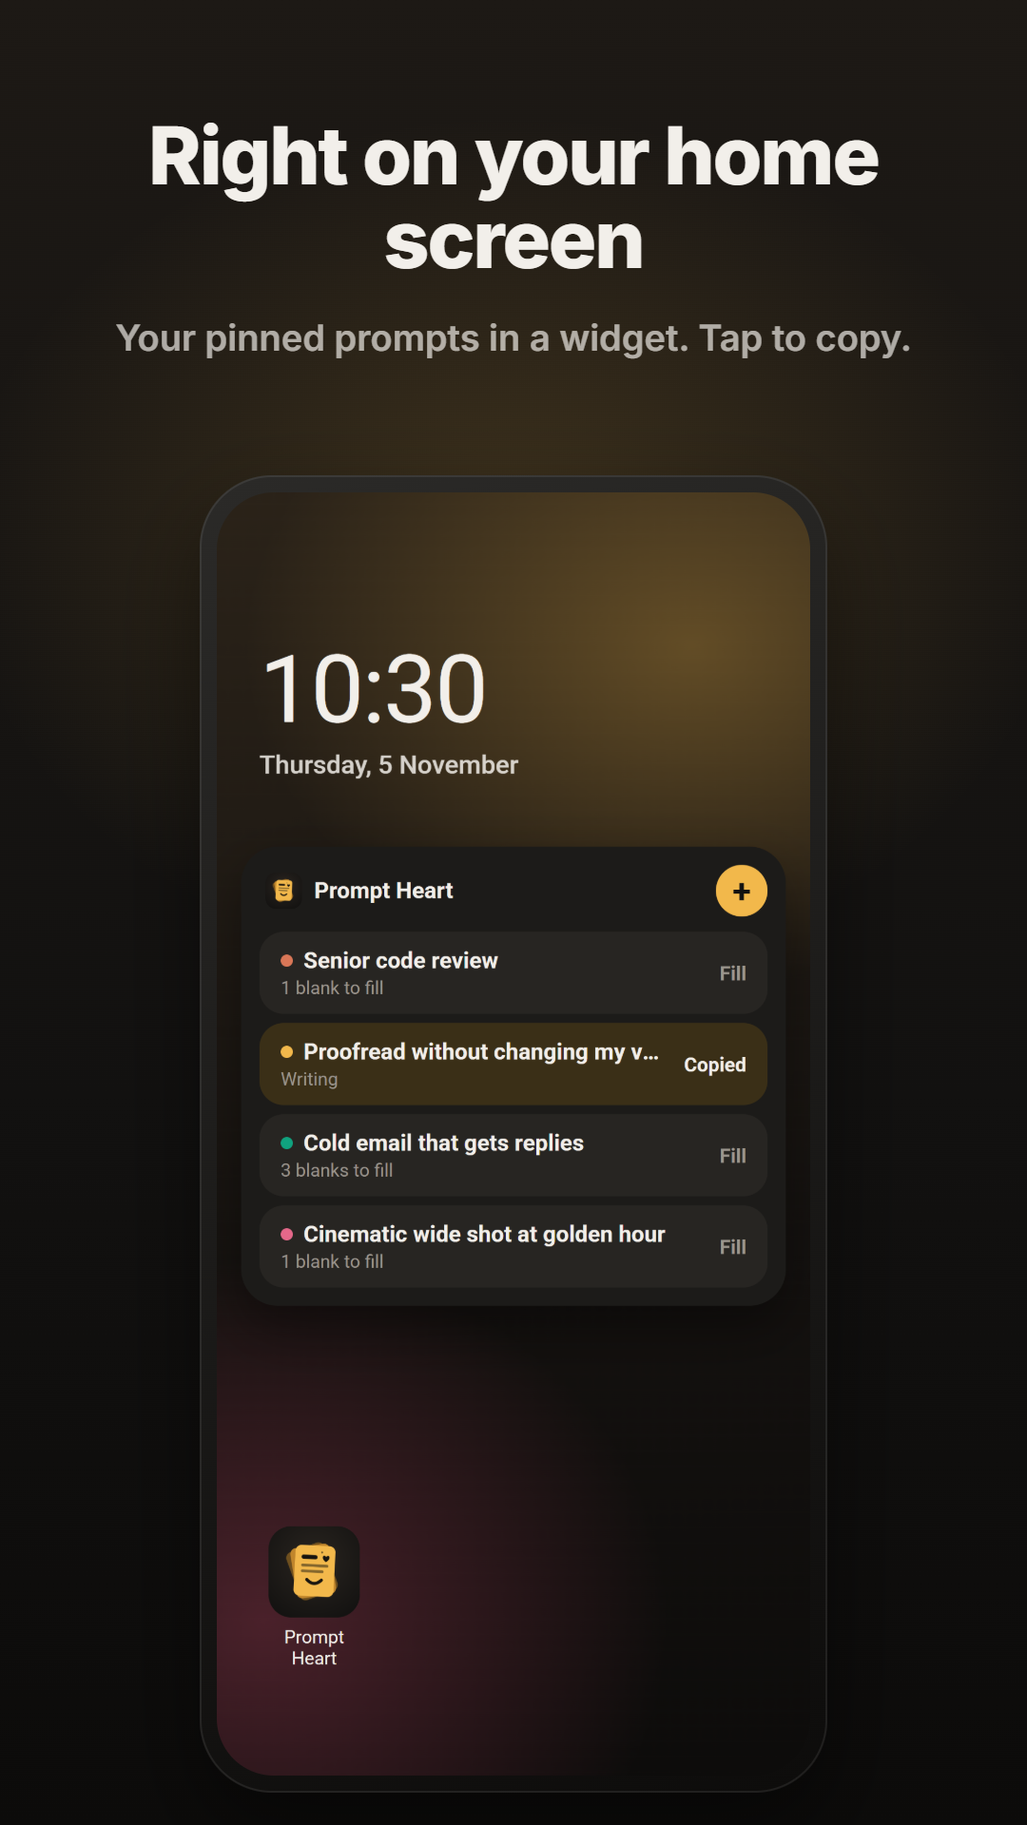
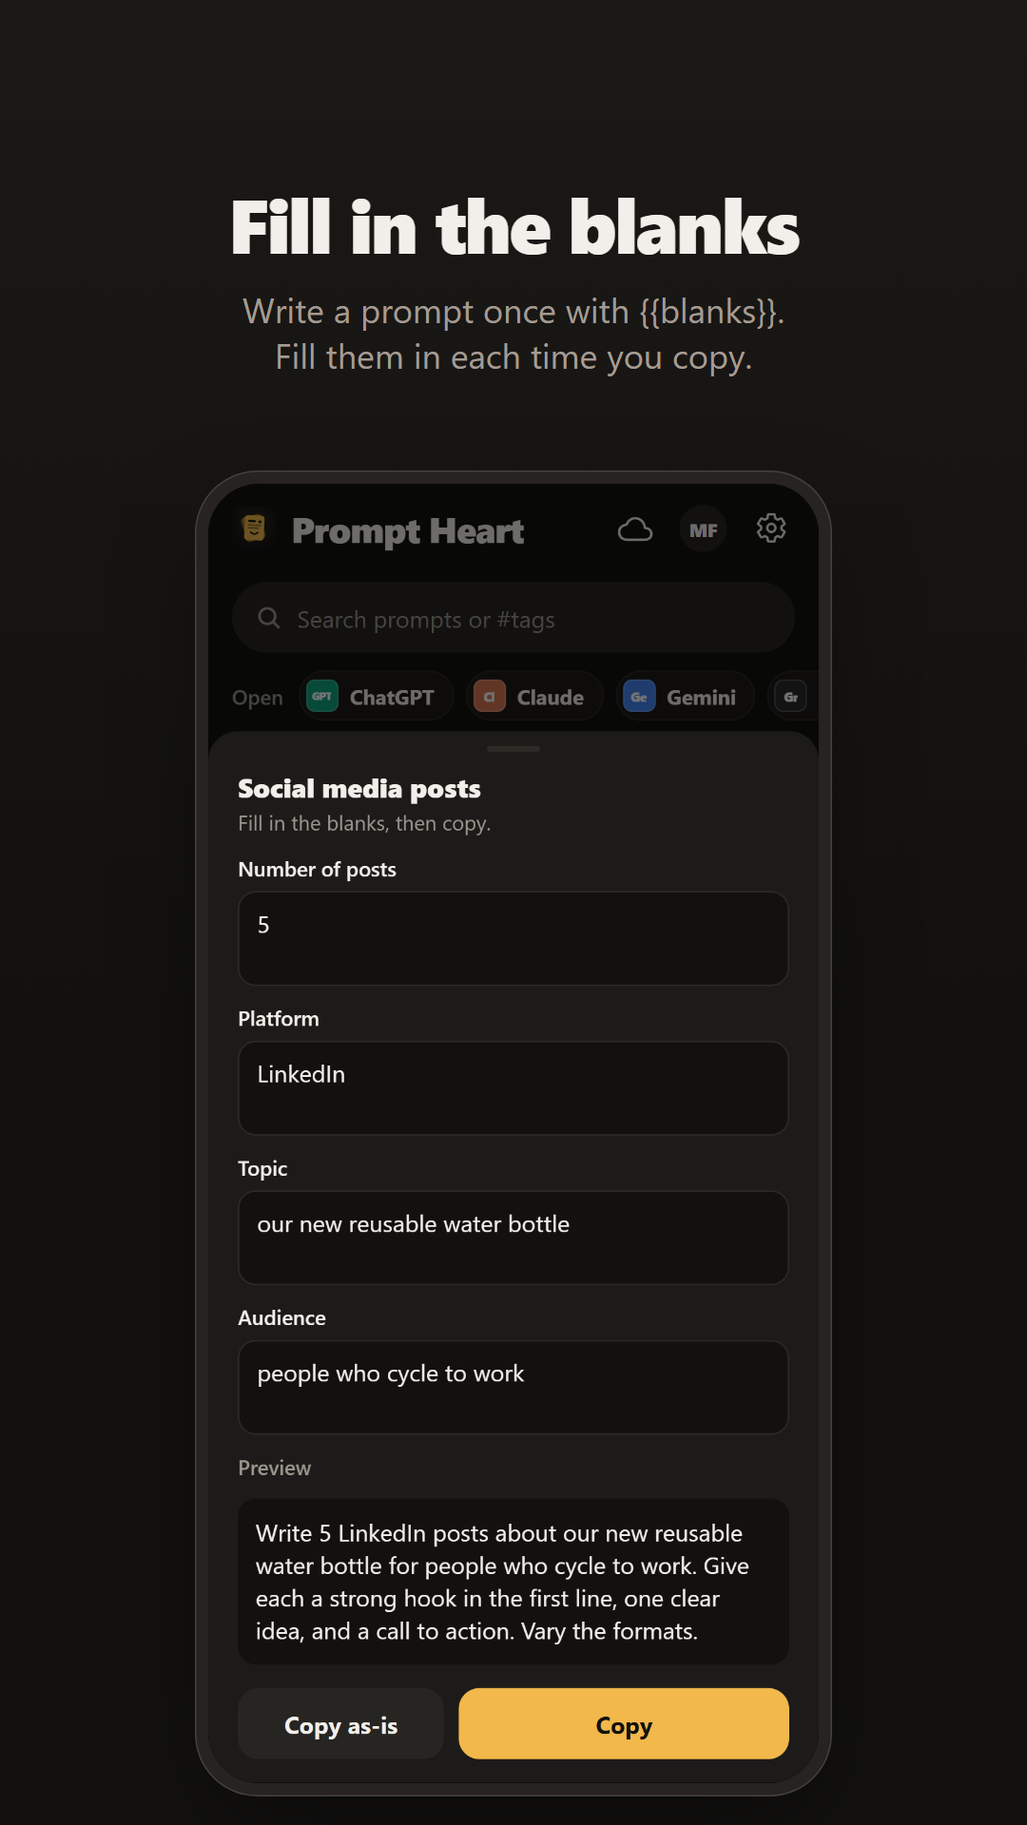
New store, README and widget art in the cleaner look
Play screenshots, feature graphic and README images are recaptured from the current app
with made-up demo data. The README headings lose their emoji, and the profile wording here
and in the Play listing no longer mentions achievements, streaks or the activity grid.
The scripts that make the art are in store/graphics/source.

diff --git a/store/graphics/source/art.html b/store/graphics/source/art.html
@@ -1,0 +1,111 @@
+<!doctype html>
+<html><head><meta charset="utf-8">
+<style>
+/* Store, README and feature art for Prompt Heart. art.html?s=<scene>. Screens are real captures from out/. */
+:root { --dark: #121110; --ink: #F2EFEA; --muted: #A39C93; --light: #F6F4EF; --ink-l: #1C1A17; --muted-l: #6E6862; --accent: #F2B84B; }
+* { margin: 0; box-sizing: border-box; }
+html, body { overflow: hidden; }
+body { font-family: system-ui, -apple-system, 'Segoe UI', Roboto, sans-serif; color: var(--ink); background: var(--dark); position: relative; }
+body.light { background: var(--light); color: var(--ink-l); }
+body.dark { background: linear-gradient(180deg, #1b1916 0%, #121110 55%); }
+body.light { background: linear-gradient(180deg, #FBFAF7 0%, #F1EEE7 100%); }
+
+/* A phone: bezel, then the screen top-aligned; the bottom of the capture runs past the frame. */
+.phone { position: absolute; width: var(--w); height: calc(var(--w) * 2.082); border-radius: calc(var(--w) * 0.098);
+  background: #262320; padding: calc(var(--w) * 0.021); box-shadow: 0 calc(var(--w) * .06) calc(var(--w) * .16) calc(var(--w) * -.05) rgb(0 0 0 / .55), inset 0 0 0 1.5px rgb(255 255 255 / .14); }
+.light .phone { background: #1a1816; box-shadow: 0 calc(var(--w) * .05) calc(var(--w) * .14) calc(var(--w) * -.05) rgb(60 45 20 / .35), inset 0 0 0 1.5px rgb(0 0 0 / .25); }
+.phone .scr { width: 100%; height: 100%; border-radius: calc(var(--w) * 0.08); overflow: hidden; background: #000; }
+.phone img { width: 100%; display: block; }
+
+/* Store screenshot, 1080 x 1920. The phone sits at 205,495, 670 x 1395 (store/social/post.html crops it there). */
+.store { width: 1080px; height: 1920px; }
+.store .cap { position: absolute; left: 90px; right: 90px; top: 150px; height: 290px; display: grid; align-content: center; text-align: center; gap: 26px; }
+.store h1 { font-size: 80px; font-weight: 800; letter-spacing: -0.03em; line-height: 1.04; text-wrap: balance; }
+.store p { font-size: 36px; line-height: 1.32; color: var(--muted); text-wrap: balance; }
+.light.store p { color: var(--muted-l); }
+.store .phone { --w: 670px; left: 205px; top: 495px; }
+
+/* Feature graphic, 1024 x 500 */
+.feature { width: 1024px; height: 500px; }
+.brand { display: flex; align-items: center; }
+.brand img { border-radius: 24%; }
+.brand b { font-weight: 800; letter-spacing: -0.03em; }
+.feature .copy { position: absolute; left: 64px; top: 0; bottom: 0; width: 490px; display: grid; align-content: center; }
+.feature .brand { gap: 18px; } .feature .brand img { width: 76px; height: 76px; } .feature .brand b { font-size: 56px; }
+.feature h2 { margin-top: 34px; font-size: 34px; font-weight: 700; letter-spacing: -0.02em; }
+.feature p { margin-top: 14px; font-size: 21px; line-height: 1.45; color: var(--muted); }
+.feature .a { --w: 230px; left: 760px; top: 46px; }
+.feature .b { --w: 210px; left: 600px; top: 110px; }
+
+/* README hero, 1200 x 645 (rendered at 2x) */
+.hero { width: 1200px; height: 645px; }
+.hero .copy { position: absolute; left: 72px; top: 0; bottom: 0; width: 520px; display: grid; align-content: center; }
+.hero .brand { gap: 18px; } .hero .brand img { width: 72px; height: 72px; } .hero .brand b { font-size: 60px; }
+.hero h2 { margin-top: 30px; font-size: 34px; font-weight: 700; letter-spacing: -0.02em; }
+.hero p { margin-top: 14px; font-size: 19px; line-height: 1.5; color: var(--muted); }
+.hero ul { margin-top: 30px; padding: 0; list-style: none; display: grid; grid-template-columns: 1fr 1fr; column-gap: 28px; }
+.hero li { font-size: 16px; font-weight: 600; padding: 11px 0; border-top: 1px solid rgb(255 255 255 / .1); }
+.hero .a { --w: 236px; left: 664px; top: 136px; }
+.hero .b { --w: 270px; left: 790px; top: 50px; z-index: 2; }
+.hero .c { --w: 236px; left: 936px; top: 136px; }
+
+/* README strips, 1200 x 592 (rendered at 2x): six phones with a title and a line under each */
+.strip { width: 1200px; height: 486px; }
+.strip .row { position: absolute; left: 36px; right: 36px; top: 34px; display: grid; grid-template-columns: repeat(6, 1fr); gap: 20px; }
+.strip .item { position: relative; padding-top: 362px; text-align: center; }
+.strip .phone { --w: 166px; left: 50%; margin-left: -83px; top: 0; }
+.strip h3 { font-size: 15px; font-weight: 700; letter-spacing: -0.01em; white-space: nowrap; }
+.strip p { margin: 5px -4px 0; font-size: 12.5px; line-height: 1.35; color: var(--muted); text-wrap: balance; }
+.light.strip p { color: var(--muted-l); }
+</style></head>
+<body>
+<script>
+const s = new URLSearchParams(location.search).get('s');
+const phone = (img, cls = '') => `<div class="phone ${cls}"><div class="scr"><img src="out/${img}.png" alt=""></div></div>`;
+const brand = '<div class="brand"><img src="icon.png" alt=""><b>Prompt Heart</b></div>';
+const STORE = {
+  '01': ['dark', 'home', 'Your best prompts, one tap away', 'Save what works. Copy it in one tap.'],
+  '02': ['dark', 'fill', 'Fill in the blanks', 'Write a prompt once with {{blanks}}. Fill them in each time you copy.'],
+  '03': ['light', 'detail', 'Copy and open your AI app', 'ChatGPT, Claude, Gemini, Grok, Perplexity and more.'],
+  '04': ['dark', 'library', '100 ready‑made prompts', 'Copy one as it is, or save it and make it yours.'],
+  '05': ['dark', 'widget', 'Right on your home screen', 'Your pinned prompts in a widget. Tap to copy.'],
+  '06': ['light', 'grid', 'Make it yours', 'Light or dark, five accents, list or grid. Sync across your devices if you like.'],
+};
+const STRIPS = {
+  gallery: ['light', [
+    ['home', 'One tap to copy', 'Any prompt, straight from home'],
+    ['fill', 'Fill in the blanks', '{{placeholders}} with a live preview'],
+    ['detail', 'Launch in your AI app', 'Copied, then the app opens'],
+    ['library', '100 ready prompts', 'Copy as they are, or save and edit'],
+    ['history', 'Version history', 'Go back to any earlier version'],
+    ['select', 'Bulk select', 'Move, tag, pin or delete many'],
+  ]],
+  newin: ['dark', [
+    ['widget', 'Home-screen widget', 'Pinned prompts, one tap to copy'],
+    ['home', 'Smaller cards', 'Full titles, with date and time'],
+    ['grid', 'List or grid', 'Titles in full in both views'],
+    ['settings', 'Account first', 'Sign in from the top of Settings'],
+    ['welcome', 'A short welcome', 'Three quick steps for new users'],
+    ['whatsnew', 'What’s new', 'After every update'],
+  ]],
+};
+let html = '';
+if (STORE[s]) {
+  const [theme, img, h, p] = STORE[s];
+  document.body.className = `store ${theme}`;
+  html = `<div class="cap"><h1>${h}</h1><p>${p}</p></div>${phone(img)}`;
+} else if (s === 'feature') {
+  document.body.className = 'feature dark';
+  html = `<div class="copy">${brand}<h2>Your AI prompts, one tap away.</h2><p>Save the prompts that work. Fill in the blanks, copy, and open ChatGPT, Claude, Gemini and more.</p></div>${phone('fill', 'b')}${phone('home', 'a')}`;
+} else if (s === 'hero') {
+  document.body.className = 'hero dark';
+  const feats = ['One-tap copy', 'Fill-in-the-blank prompts', 'Open in your AI app', '100-prompt library', 'Home-screen widget', 'Version history', 'Cloud sync, if you want it', 'App lock'];
+  html = `<div class="copy">${brand}<h2>Your AI prompts, one tap away.</h2><p>Save the prompts that work. Fill in the blanks. Copy or launch them in ChatGPT, Claude, Gemini, Grok and more, from one simple notes app.</p><ul>${feats.map((f) => `<li>${f}</li>`).join('')}</ul></div>${phone('detail', 'a')}${phone('profile', 'c')}${phone('home', 'b')}`;
+} else if (STRIPS[s]) {
+  const [theme, items] = STRIPS[s];
+  document.body.className = `strip ${theme}`;
+  html = `<div class="row">${items.map(([img, h, p]) => `<div class="item">${phone(img)}<h3>${h}</h3><p>${p}</p></div>`).join('')}</div>`;
+}
+document.body.insertAdjacentHTML('beforeend', html);
+</script>
+</body></html>

diff --git a/store/graphics/source/widget.html b/store/graphics/source/widget.html
@@ -1,0 +1,44 @@
+<!doctype html>
+<html><head><meta charset="utf-8">
+<style>
+/* An Android home screen with the Prompts widget, laid out as src/widget/PromptsWidget.tsx draws it (dark theme, amber). */
+* { margin: 0; box-sizing: border-box; }
+html, body { width: 412px; height: 877px; overflow: hidden; }
+body { font-family: Roboto, system-ui, 'Segoe UI', sans-serif; color: #F2EFEA;
+  background: linear-gradient(170deg, #2a2420 0%, #1a1715 45%, #121110 100%); position: relative; }
+.status { height: 32px; display: flex; justify-content: space-between; align-items: center; padding: 0 20px; font-size: 13px; font-weight: 500; color: #ddd8d0; }
+.clock { margin: 64px 0 0 28px; font-size: 64px; font-weight: 300; letter-spacing: -1px; line-height: 1; }
+.date { margin: 10px 0 0 30px; font-size: 15px; color: #cfc9c1; }
+.widget { margin: 48px 16px 0; padding: 12px; border-radius: 24px; background: #1C1B19; box-shadow: 0 10px 30px -12px rgb(0 0 0 / .6); }
+.head { display: flex; align-items: center; justify-content: space-between; margin-bottom: 10px; padding-left: 4px; }
+.brand { display: flex; align-items: center; gap: 8px; font-size: 15px; font-weight: 700; }
+.brand img { width: 24px; height: 24px; border-radius: 7px; }
+.plus { width: 34px; height: 34px; border-radius: 17px; background: #F2B84B; color: #121110; display: grid; place-items: center; font-size: 24px; font-weight: 500; line-height: 1; }
+.row { display: flex; align-items: center; padding: 10px 14px; border-radius: 16px; background: #272522; margin-bottom: 6px; min-height: 58px; }
+.row:last-child { margin-bottom: 0; }
+.row.copied { background: #3A2F17; }
+.row div { flex: 1; min-width: 0; }
+.t { font-size: 15px; font-weight: 700; white-space: nowrap; overflow: hidden; text-overflow: ellipsis; }
+.n { font-size: 12px; margin-top: 2px; color: #9C968E; white-space: nowrap; overflow: hidden; text-overflow: ellipsis; }
+.a { margin-left: 10px; font-size: 13px; font-weight: 700; color: #9C968E; }
+.copied .a { color: #F2EFEA; }
+.dock { position: absolute; left: 30px; bottom: 70px; display: flex; }
+.app { display: grid; justify-items: center; gap: 6px; font-size: 12px; color: #e8e3dc; }
+.app img, .app i { width: 56px; height: 56px; border-radius: 16px; display: block; }
+.app i { background: #2c2925; }
+.nav { position: absolute; bottom: 14px; left: 50%; width: 110px; height: 4px; margin-left: -55px; border-radius: 2px; background: #bdb7af; }
+</style></head>
+<body>
+<div class="status"><span>10:30</span><span>5G ▮▮▮ 82%</span></div>
+<div class="clock">10:30</div>
+<div class="date">Sunday, 22 November</div>
+<div class="widget">
+  <div class="head"><div class="brand"><img src="icon.png" alt="">Prompt Heart</div><div class="plus">+</div></div>
+  <div class="row"><div><p class="t">Senior code review</p><p class="n">1 blank to fill</p></div><span class="a">Fill</span></div>
+  <div class="row copied"><div><p class="t">Proofread without changing my voice</p><p class="n">Writing</p></div><span class="a">Copied</span></div>
+  <div class="row"><div><p class="t">Cold email that gets replies</p><p class="n">3 blanks to fill</p></div><span class="a">Fill</span></div>
+  <div class="row"><div><p class="t">Meeting notes to action items</p><p class="n">1 blank to fill</p></div><span class="a">Fill</span></div>
+</div>
+<div class="dock"><div class="app"><img src="icon.png" alt="">Prompt Heart</div></div>
+<div class="nav"></div>
+</body></html>

diff --git a/README.md b/README.md
@@ -6,7 +6,7 @@
   <a href="../../releases/latest"><img alt="Download APK" src="https://img.shields.io/badge/Download-Android%20APK-F2B84B?style=for-the-badge&logo=android&logoColor=white&labelColor=1C1A17"></a>
   <a href="https://heartapps.github.io/prompt-heart/fdroid.html"><img alt="Get it with F-Droid" src="https://img.shields.io/badge/Get%20it%20with-F--Droid-1976D2?style=for-the-badge&logo=f-droid&logoColor=white&labelColor=1C1A17"></a>
   <a href="https://heartapps.github.io/prompt-heart/"><img alt="Website" src="https://img.shields.io/badge/Website-Try%20it%20in%20your%20browser-F2B84B?style=for-the-badge&logo=googlechrome&logoColor=white&labelColor=1C1A17"></a>
-  <img alt="Version" src="https://img.shields.io/badge/version-1.8.1-F2B84B?style=for-the-badge&labelColor=1C1A17">
+  <img alt="Version" src="https://img.shields.io/badge/version-1.8.2-F2B84B?style=for-the-badge&labelColor=1C1A17">
   <img alt="Expo SDK 58" src="https://img.shields.io/badge/Expo-SDK%2058-000020?style=for-the-badge&logo=expo&logoColor=white">
   <img alt="React Native" src="https://img.shields.io/badge/React%20Native-0.88-61DAFB?style=for-the-badge&logo=react&logoColor=black">
   <img alt="Supabase" src="https://img.shields.io/badge/Sync-Supabase-3ECF8E?style=for-the-badge&logo=supabase&logoColor=white">
@@ -21,73 +21,73 @@ Save them in seconds, fill in the blanks when you need them, and copy or launch 
 </p>
 
 <p align="center">
-🌐 <a href="https://heartapps.github.io/prompt-heart/"><b>heartapps.github.io/prompt-heart</b></a>: fill in a real prompt from the library, right in your browser.
+<a href="https://heartapps.github.io/prompt-heart/"><b>heartapps.github.io/prompt-heart</b></a>: fill in a real prompt from the library, right in your browser.
 </p>
 
 <br/>
 
-## ✨ Highlights
+## Highlights
 
 <table>
   <tr>
     <td width="33%" valign="top">
-      <h4>⚡ One-tap copy</h4>
+      <h4>One-tap copy</h4>
       Every prompt has its own copy button. Copying takes the text only; reference images never come along.
     </td>
     <td width="33%" valign="top">
-      <h4>🧩 Smart templates</h4>
+      <h4>Smart templates</h4>
       Write <code>{{topic}}</code> and fill it in when you copy, with a live preview. <code>{{tone|friendly}}</code> sets a default.
     </td>
     <td width="33%" valign="top">
-      <h4>🚀 Launch in your AI app</h4>
+      <h4>Launch in your AI app</h4>
       Every AI app gets its own folder. Tap <b>Open in Claude</b>: your prompt is copied and the Claude app opens, ready to paste.
     </td>
   </tr>
   <tr>
     <td valign="top">
-      <h4>✍ Read, then edit</h4>
+      <h4>Read, then edit</h4>
       Prompts open read-only, so a stray tap can't change them. <b>Edit</b> adds bold, lists, headings, code and <code>{{blanks}}</code>, with undo and redo.
     </td>
     <td valign="top">
-      <h4>🗂 Organise anything</h4>
+      <h4>Organise anything</h4>
       Categories, #tags, pins, search, grid or list, a Recently copied view, and <b>bulk select</b> to move, tag or delete many at once.
     </td>
     <td valign="top">
-      <h4>🕘 Version history</h4>
+      <h4>Version history</h4>
       A version is kept each time you start editing. Preview, copy or restore any earlier one, so a good prompt is never lost.
     </td>
   </tr>
   <tr>
     <td valign="top">
-      <h4>🏆 Your prompting</h4>
-      Your profile shows the four prompts you use most, a year of activity, streaks, where your prompts go, and eleven achievements in five tiers.
+      <h4>Your profile</h4>
+      Your profile shows plain numbers: your prompts, times copied, active days, the prompts you copy most and where they go.
     </td>
     <td valign="top">
-      <h4>📌 Home-screen widget</h4>
+      <h4>Home-screen widget</h4>
       Your pinned prompts on your home screen, one tap to copy. Your name, photo and bio follow you to your other phones.
     </td>
     <td valign="top">
-      <h4>📥 Bring your prompts</h4>
+      <h4>Bring your prompts</h4>
       Import from spreadsheets, Notion, the awesome-chatgpt-prompts list, JSON, Markdown or text. Or share text, links and screenshots in from any app.
     </td>
   </tr>
   <tr>
     <td valign="top">
-      <h4>☁ Sync &amp; backup</h4>
+      <h4>Sync &amp; backup</h4>
       Cloud sync across devices that works offline and stays light on data, plus JSON, Markdown and spreadsheet (CSV) export.
     </td>
     <td valign="top">
-      <h4>🔒 App lock</h4>
+      <h4>App lock</h4>
       Unlock with your fingerprint, face or screen lock, and keep your prompts hidden in the recent-apps screen.
     </td>
     <td valign="top">
-      <h4>✨ Always up to date</h4>
+      <h4>Always up to date</h4>
       Improvements arrive by themselves, and after each update a short note shows what's new. Light and dark themes, five accents.
     </td>
   </tr>
   <tr>
     <td colspan="3" valign="top">
-      <h4>📚 Prompt library</h4>
+      <h4>Prompt library</h4>
       100 ready-made prompts for image generation, productivity, business, marketing, writing, coding, research, learning, careers and better prompting itself. Copy one as it is, or save it to your prompts and make it your own.
     </td>
   </tr>
@@ -105,7 +105,7 @@ Save them in seconds, fill in the blanks when you need them, and copy or launch 
   <img src="docs/new-in-1.8.png" alt="Screens: the home-screen widget, smaller cards, list or grid, Account first in Settings, the welcome, and What's new" width="100%" />
 </p>
 
-## ⬇ Install
+## Install
 
 ### With F-Droid (recommended, updates automatically)
 
@@ -136,24 +136,24 @@ Both ways install the same signed APK, so you can switch between them without lo
 
 > Prompt Heart asks for very little: **Internet**, for sync and updates, **Vibrate**, for copy feedback, and **Biometric**, only used if you turn on App lock. Photos are picked with Android's own photo picker, so the app never needs access to your gallery.
 
-## 🔒 Your data
+## Your data
 
 - **Offline first.** Prompts, images and history live on your phone and work without a connection.
 - **Private sync.** With an account, your prompts, images, name, bio and photo sync through Supabase. Row Level Security means every account can only read its own rows, and images sit in a private bucket under your own folder.
-- **Version history and the copy log stay on your device**, so sync stays fast and light. The copy log only counts copies per day for your profile's activity graph.
+- **Version history and the copy log stay on your device**, so sync stays fast and light. The copy log only counts copies per day for your profile's numbers.
 - **Light on the cloud.** Up to 20 images per account sync; any extras stay on your phone. Images are resized to about 100 KB.
 - **Optional App lock.** Unlock with your fingerprint, face or phone screen lock, and keep your prompts hidden in the recent-apps screen.
 - **You're in control.** Change your email or password, export everything, or delete your account and all of its cloud data from **Profile**.
 
 Read the full [privacy policy](https://heartapps.github.io/prompt-heart/privacy.html), or see [how to delete your account](https://heartapps.github.io/prompt-heart/delete-account.html).
 
-## 🗺 Roadmap
+## Roadmap
 
 - [x] One-tap copy, templates, categories, tags, search
 - [x] Cloud sync, image attachments, save from other apps
 - [x] AI app folders and launching, bulk select, version history, update pop-up
 - [x] Prompt library, App lock, sign-in emails and password reset
-- [x] Read-only prompts with formatting and undo; profile insights and achievements; import from other apps
+- [x] Read-only prompts with formatting and undo; profile insights; import from other apps
 - [ ] Google Play release
 - [ ] Home-screen widget for pinned prompts
 - [ ] Shared libraries for teams
@@ -213,11 +213,11 @@ The runtime version uses the `fingerprint` policy, so an update only reaches bui
 
 </details>
 
-## 💛 Credits
+## Credits
 
 Made with care by **[Inigo](https://github.com/inigo-code)**. Icons are from [Ionicons](https://ionic.io/ionicons).
 
-## © Copyright
+## Copyright
 
 Copyright © 2026 Inigo. All rights reserved.
 

diff --git a/store/graphics/source/README.md b/store/graphics/source/README.md
@@ -1,0 +1,11 @@
+# Store and README art
+
+Makes the Play screenshots, feature graphic, README art (`docs/`) and the site's phone screens from the real web app, with made-up demo data.
+
+1. `npx expo export -p web --output-dir <dir>`, then `node serve.cjs <dir>` (port 8095).
+2. Start headless Chrome: `chrome --headless=new --remote-debugging-port=9333 --user-data-dir=<temp> http://localhost:8095/`.
+3. `node seed.mjs` writes the demo data. `node cap.mjs <name> [dark|light|grid|welcome|whatsnew] -- <steps>` saves `out/<name>.png` (see the top of cap.mjs for steps; `map` lists what's on screen). Captures used: home, fill, detail, library, profile, history, select, grid, settings, welcome, whatsnew. Render `widget.html` at 412 x 877, scale 2.5, to `out/widget.png`.
+4. `bash render.sh` composes `art.html` into `dist/`: `screenshots/01-06.png`, `feature-graphic.png`, `hero.png`, `gallery.png`, `new.png`.
+5. Site screens: capture home, library and profile with `H=892` as `out/site-*.png`, copy them into `<dir>/tmp/`, then `node webp.mjs` writes `dist/*.webp` (780 x 1688).
+
+The social posts (`../social/post.html`) crop the phone out of screenshots 01 and 03. The video is in `../video/source`.

diff --git a/store/play-console.md b/store/play-console.md
@@ -68,7 +68,7 @@ Data types. For each one: **Collected: yes. Shared: no.** (Supabase and Expo are
 
 Everything else (location, contacts, messages, financial, health, audio, files, calendar, web history, app interactions, crash logs, diagnostics, other device info): **not collected**.
 
-Not collected, though the app keeps them on the phone: the record of which prompts were copied and when (for profile statistics and achievements), and files picked for import. Neither is sent anywhere, so neither goes in the form.
+Not collected, though the app keeps them on the phone: the record of which prompts were copied and when (for profile statistics), and files picked for import. Neither is sent anywhere, so neither goes in the form.
 
 Why "Device or other IDs" is listed: the update service (Expo EAS Update) receives a random installation ID with each update check. It isn't used for tracking, but listing it is the safe reading of Google's rules.
 

diff --git a/store/listing.md b/store/listing.md
@@ -50,7 +50,7 @@ Private by design
 • Delete your account and its data from the app at any time
 
 Make it yours
-• A profile with your most-used prompts, a year of activity, streaks and achievements
+• A profile with your most-used prompts, times copied and active days
 • Light or dark theme, accent colours, and a list or grid layout
 
 Prompt Heart is an independent app and isn't affiliated with or endorsed by OpenAI, Anthropic or Google.
